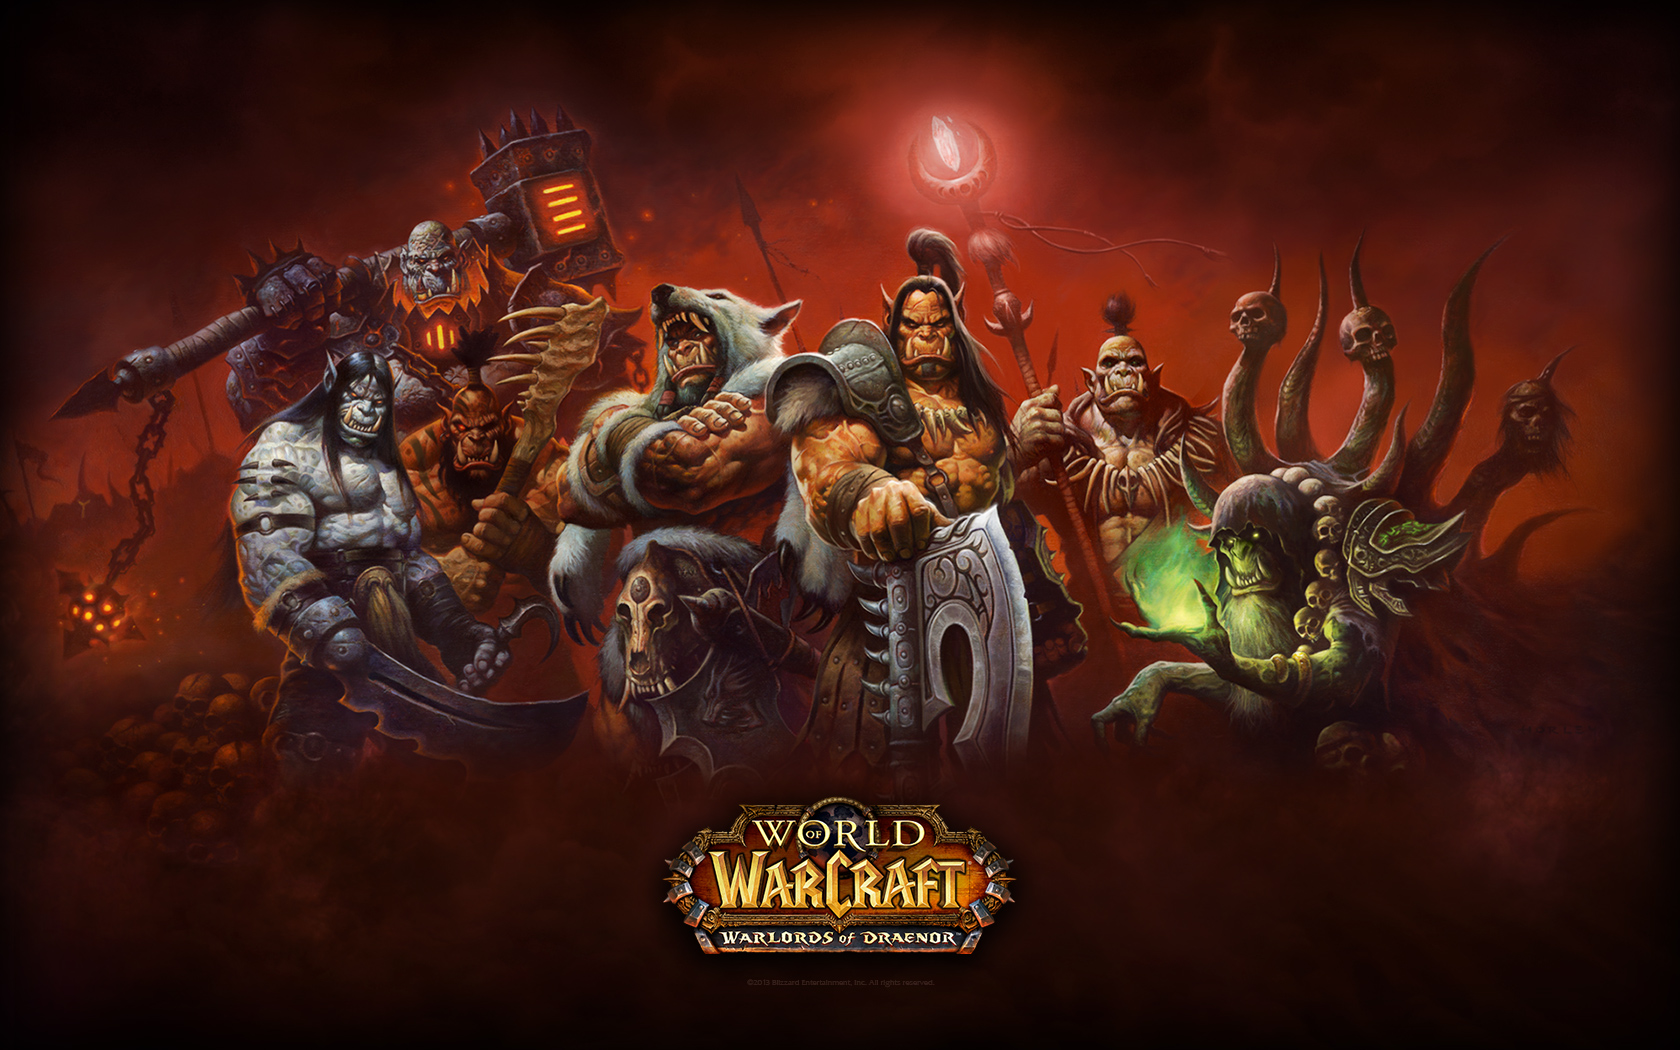
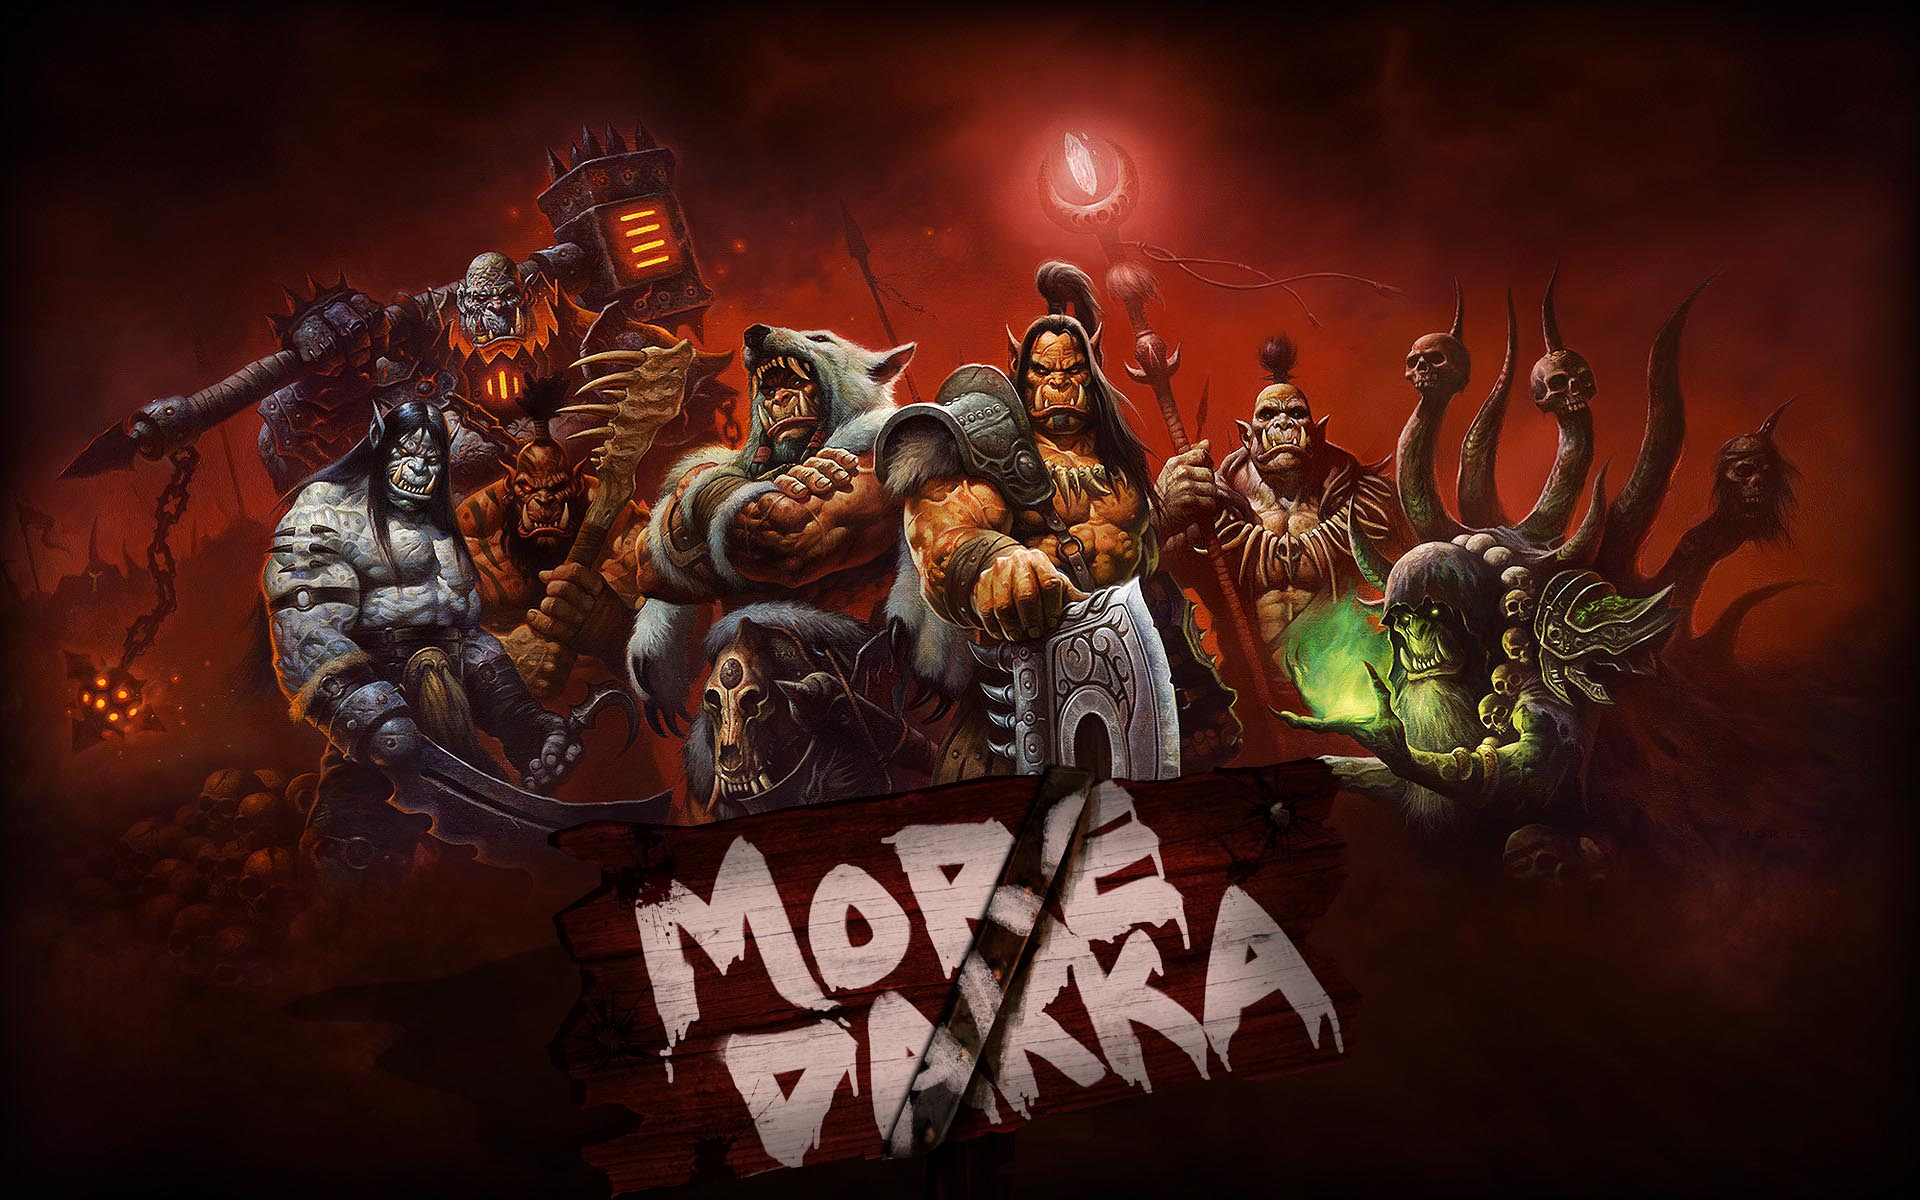
Updated background pic's, Added forum controllers

diff --git a/MoreDakka/Scripts/MoreDakka/Controllers/HomeController.js b/MoreDakka/Scripts/MoreDakka/Controllers/HomeController.js
@@ -1,4 +1,4 @@
-/// <reference path="../../typings/angularjs/angular.d.ts"/>
+/// <reference path="../../typings/angularjs/angular.d.ts"/>
 /// <reference path="../MoreDakka.ts" />
 var MoreDakka;
 (function (MoreDakka) {
@@ -11,15 +11,4 @@ var MoreDakka;
     })();
 
     MoreDakka.moreDakka.controller('homeController', HomeController);
-
-    var TestController = (function () {
-        function TestController($scope) {
-            this.$scope = $scope;
-            $scope.message = "Test123";
-        }
-        return TestController;
-    })();
-
-    MoreDakka.moreDakka.controller('testController', TestController);
 })(MoreDakka || (MoreDakka = {}));
-//# sourceMappingURL=HomeController.js.map

diff --git a/MoreDakka/Scripts/MoreDakka/Controllers/HomeController.ts b/MoreDakka/Scripts/MoreDakka/Controllers/HomeController.ts
@@ -9,12 +9,4 @@ module MoreDakka {
     }
 
     moreDakka.controller('homeController', HomeController);
-
-    class TestController {
-        constructor(private $scope) {
-            $scope.message = "Test123";
-        }
-    }
-
-    moreDakka.controller('testController', TestController);
 }

diff --git a/MoreDakka/Scripts/MoreDakka/Controllers/ForumsController.ts b/MoreDakka/Scripts/MoreDakka/Controllers/ForumsController.ts
@@ -1,0 +1,11 @@
+/// <reference path="../../typings/angularjs/angular.d.ts"/>
+/// <reference path="../MoreDakka.ts" />
+
+module MoreDakka {
+    class ForumController {
+        constructor(private $scope) {
+        }
+    }
+
+    moreDakka.controller('forumController', ForumController);
+}
